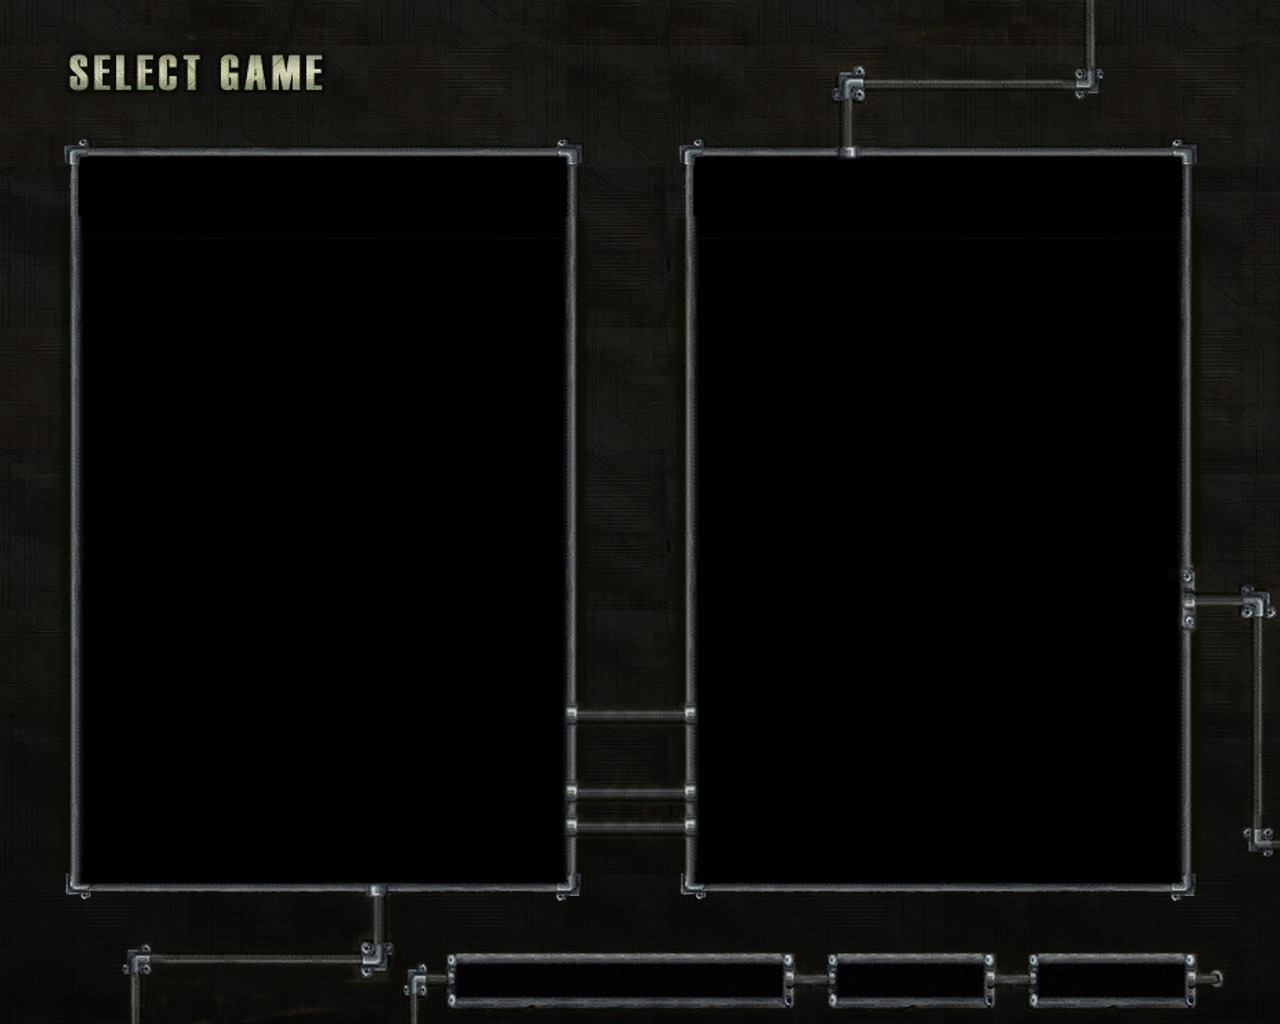
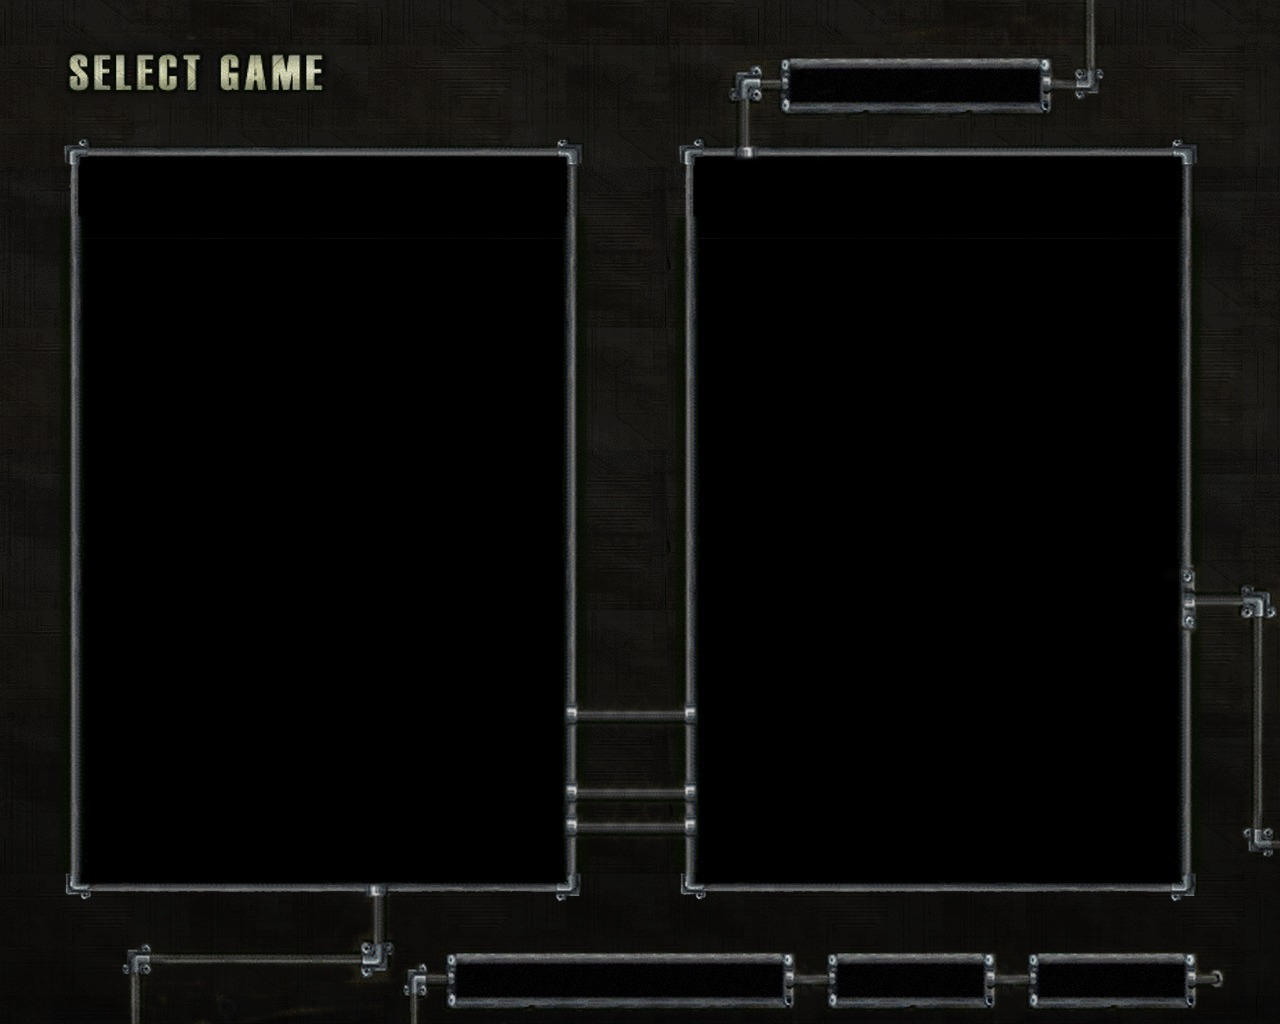
* now you can join a server by giving its IP/name

Changed region(s): [[0.5625, 0.0312, 0.8438, 0.1562]]

diff --git a/src/menu.cpp b/src/menu.cpp
@@ -1886,6 +1886,8 @@ void network_room(void)				// Let players create/join a game
 	int amy = -1;
 	int amz = -1;
 	int amb = -1;
+	
+	String join_host = "";
 
 	do
 	{
@@ -2007,10 +2009,22 @@ void network_room(void)				// Let players create/join a game
 			done = true;
 			}
 
+		if( networkgame_area.get_state( "joinip.b_ok" ) ) {
+			join_host = networkgame_area.get_caption( "joinip.t_hostname" );
+			done = true;
+			}
+
 		if( networkgame_area.get_state( "networkgame.b_join" ) ) {
 			while( key[KEY_ENTER] )	{	rest( 20 );	poll_keyboard();	}
 			clear_keybuf();
 			done=true;		// If user click "OK" or hit enter then leave the window
+			List< SERVER_DATA >::iterator i_server = servers.begin();
+			while( i_server != servers.end() && i_server->name != sel_index )	i_server++;
+
+			if( i_server != servers.end() )		// Server not found !!
+				join_host = i_server->host;
+			else
+				join_host.clear();
 			}
 
 		if( networkgame_area.get_state( "networkgame.b_cancel" ) || key[KEY_ESC] ) {
@@ -2056,17 +2070,13 @@ void network_room(void)				// Let players create/join a game
 	reset_mouse();
 	while(key[KEY_ESC]) {	rest(1);	poll_keyboard();	}
 
-	if( !sel_index.empty() ) {			// Join a game
+	if( !join_host.empty() ) {			// Join a game
 		TA3D_network.Disconnect();
-		List< SERVER_DATA >::iterator i_server = servers.begin();
-		while( i_server != servers.end() && i_server->name != sel_index )	i_server++;
 
-		if( i_server != servers.end() )	{		// Server not found !!
-			setup_game( true, i_server->host.c_str() );
-			gfx->ReInitTexSys();
-			glScalef(SCREEN_W/640.0f,SCREEN_H/480.0f,1.0f);
-			gfx->set_2D_mode();
-			}
+		setup_game( true, join_host.c_str() );
+		gfx->ReInitTexSys();
+		glScalef(SCREEN_W/640.0f,SCREEN_H/480.0f,1.0f);
+		gfx->set_2D_mode();
 		}
 	gfx->unset_2D_mode();	// Quitte le mode de dessin d'allegro
 }

diff --git a/src/network.cpp b/src/network.cpp
@@ -969,7 +969,7 @@ int Network::getMyID()
 		if( sendSpecial( strtochat( &special_msg, "REQUEST PLAYER_ID" ) ) )
 			return -1;
 		else {
-			int timeout = 30000;
+			int timeout = 5000;
 			int my_id = -1;
 			while( my_id == -1 && timeout-- ) {
 				rest(1);
